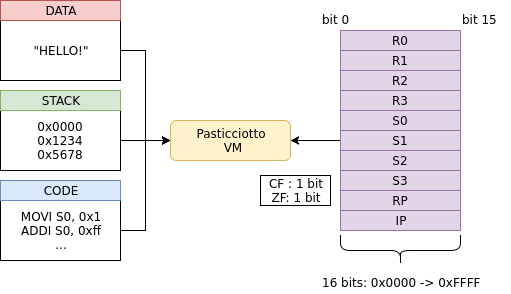
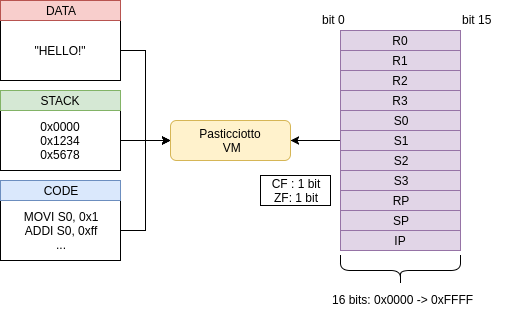
Forgot about SP in IMPLEMENTATION..

diff --git a/IMPLEMENTATION.md b/IMPLEMENTATION.md
@@ -3,7 +3,7 @@
 Pasticciotto uses the Harvard Architecture meaning its code is separated from its data and also from its stack. This allowed me to materialize my idea for the **PoliCTF** challenge: I could run the code the partecipants assembled without any hassle!
 ![Structure]
 
-There are 8 general purpose registers (`R0` to `S3`) with `S0 -> S3` being "scratch" ones. There is a `RP` register (Return Pointer) and obviously the `IP` (Instruction Pointer).
+There are 8 general purpose registers (`R0` to `S3`) with `S0 -> S3` being "scratch" ones. There is a `RP` register (Return Pointer), the `SP` register (Stack Pointer) and obviously the `IP` (Instruction Pointer).
 
 Every instruction varies from `2` to `4` bytes long: the opcode has a fixed size (`1` byte).
 
